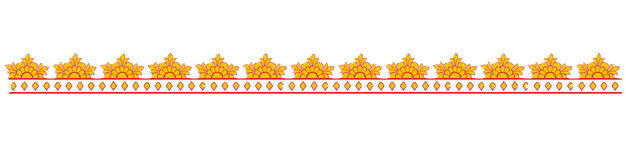
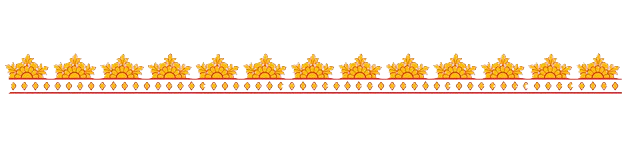
complete admin dashboard

Changed region(s): [[0.0, 0.3312, 1.0, 0.6115]]

diff --git a/frontend/src/pages/TemplesList.tsx b/frontend/src/pages/TemplesList.tsx
@@ -13,16 +13,20 @@ interface Temple {
 }
 
 // 🔱 Scrolling Border Component
-function ScrollingBorder({ reverse = false }: { reverse?: boolean }) {
+function ScrollingBorder({
+  mirrored = false,
+}: {
+  mirrored?: boolean;
+}) {
   return (
     <div className="overflow-hidden py-1">
       <div
-        className={reverse ? "animate-border-right" : "animate-border-left"}
+        className={`animate-border-left ${mirrored ? "border-mirror" : ""}`}
         style={{
           backgroundImage: "url('/temple-border.png')",
           backgroundRepeat: "repeat-x",
           backgroundSize: "110px auto",
-          height: "22px",
+          height: "30px",
           width: "300%",
           opacity: 0.95,
         }}
@@ -75,8 +79,8 @@ export default function TemplesList() {
         </p>
       </div>
 
-      {/* 🔱 Border AFTER Description */}
-      <ScrollingBorder reverse />
+      {/* 🔱 Border AFTER Description — MIRRORED PNG but SAME direction */}
+      <ScrollingBorder mirrored />
 
       {/* Temple Cards */}
       <div className="max-w-7xl mx-auto px-6 grid grid-cols-1 sm:grid-cols-2 lg:grid-cols-3 gap-10">
@@ -100,7 +104,6 @@ export default function TemplesList() {
                 key={temple._id}
                 className="group rounded-2xl overflow-hidden"
               >
-                {/* Image Box */}
                 <div
                   className="relative h-72 bg-white rounded-2xl shadow-lg 
                   border border-yellow-300 transition-all duration-500 
@@ -121,7 +124,6 @@ export default function TemplesList() {
                   )}
                 </div>
 
-                {/* Details */}
                 <div className="pt-4 px-2 text-center">
                   <h2 className="text-2xl font-semibold text-orange-800 font-[Playfair]">
                     {name}

diff --git a/frontend/src/index.css b/frontend/src/index.css
@@ -1,34 +1,22 @@
 @import "tailwindcss";
 
-@layer base {
-  body {
-    @apply bg-gray-50 text-gray-900 font-sans;
-  }
-}
-
-/* Smooth devotional slow scroll */
+/* Slow smooth devotional scroll (RIGHT → LEFT) */
 @keyframes border-scroll-left {
   from {
     transform: translateX(0);
   }
   to {
-    transform: translateX(-33.33%);
+    transform: translateX(-50%);
   }
 }
 
-@keyframes border-scroll-right {
-  from {
-    transform: translateX(-33.33%);
-  }
-  to {
-    transform: translateX(0);
-  }
-}
-
+/* All borders scroll left */
 .animate-border-left {
   animation: border-scroll-left 28s linear infinite;
 }
 
-.animate-border-right {
-  animation: border-scroll-right 28s linear infinite;
+/* Mirrored border (horizontal flip) */
+.border-mirror {
+  transform: scaleX(-1);
+  transform-origin: center;
 }
